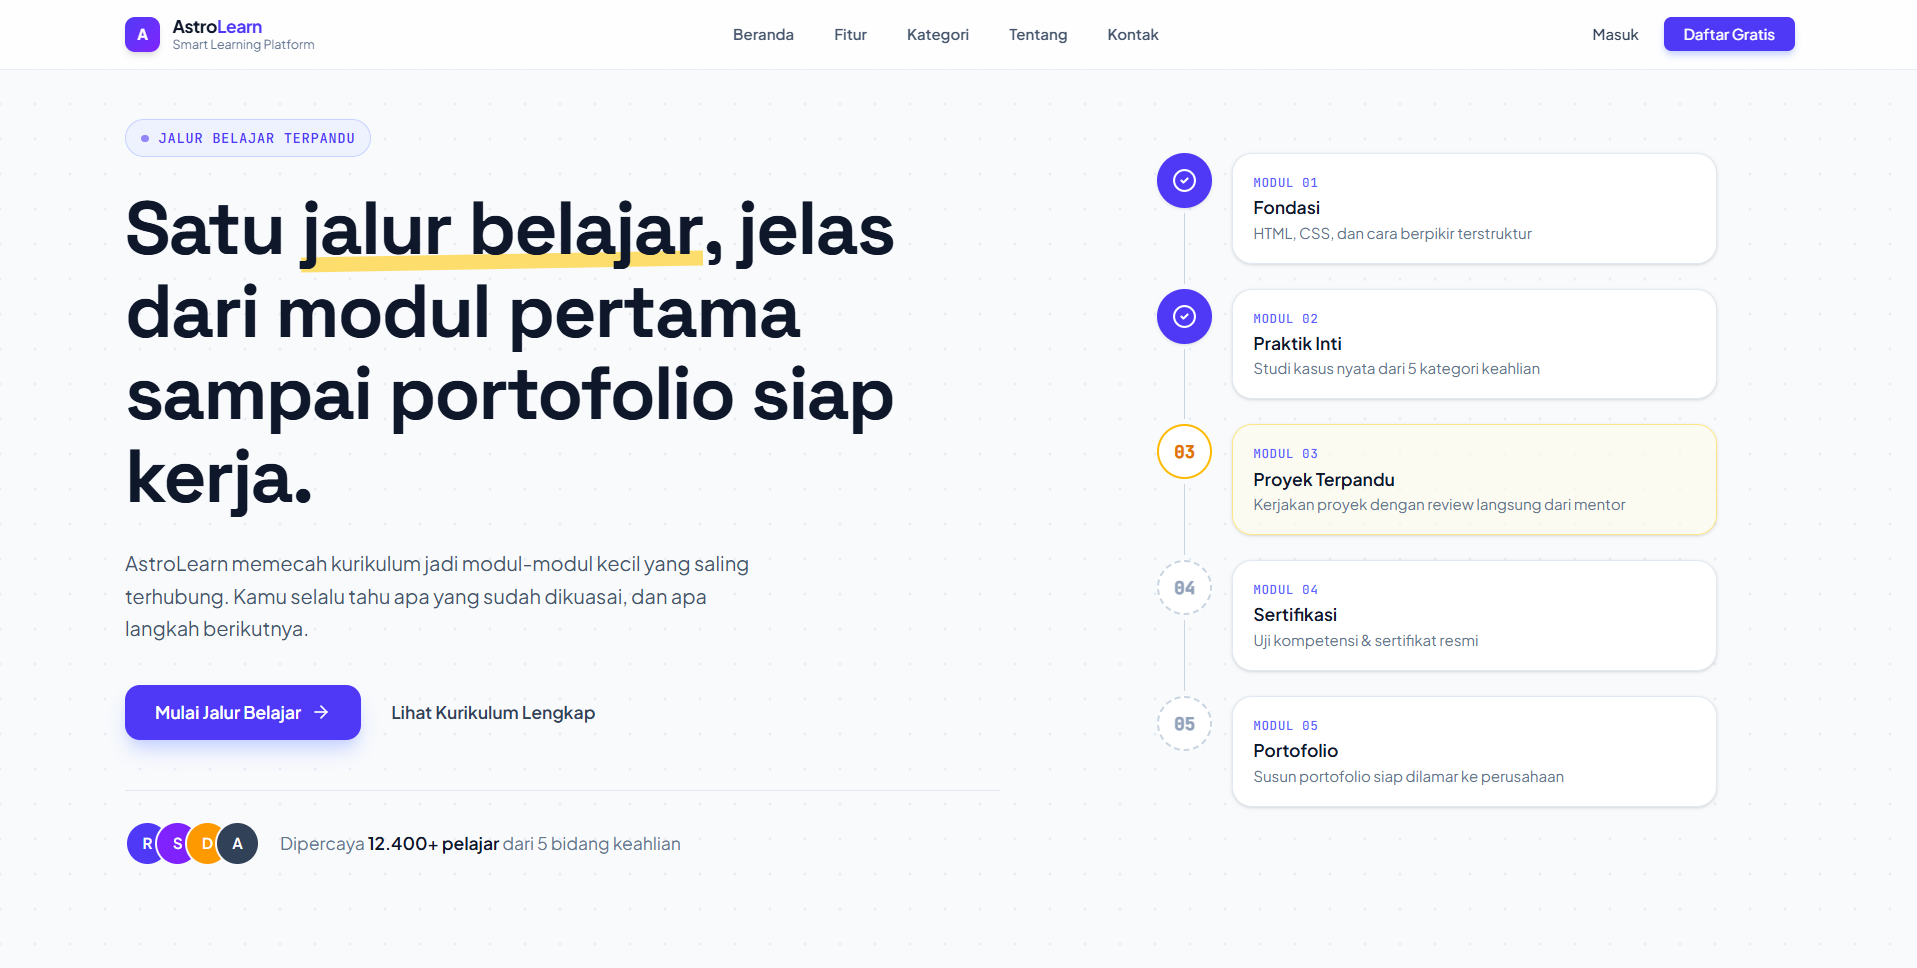
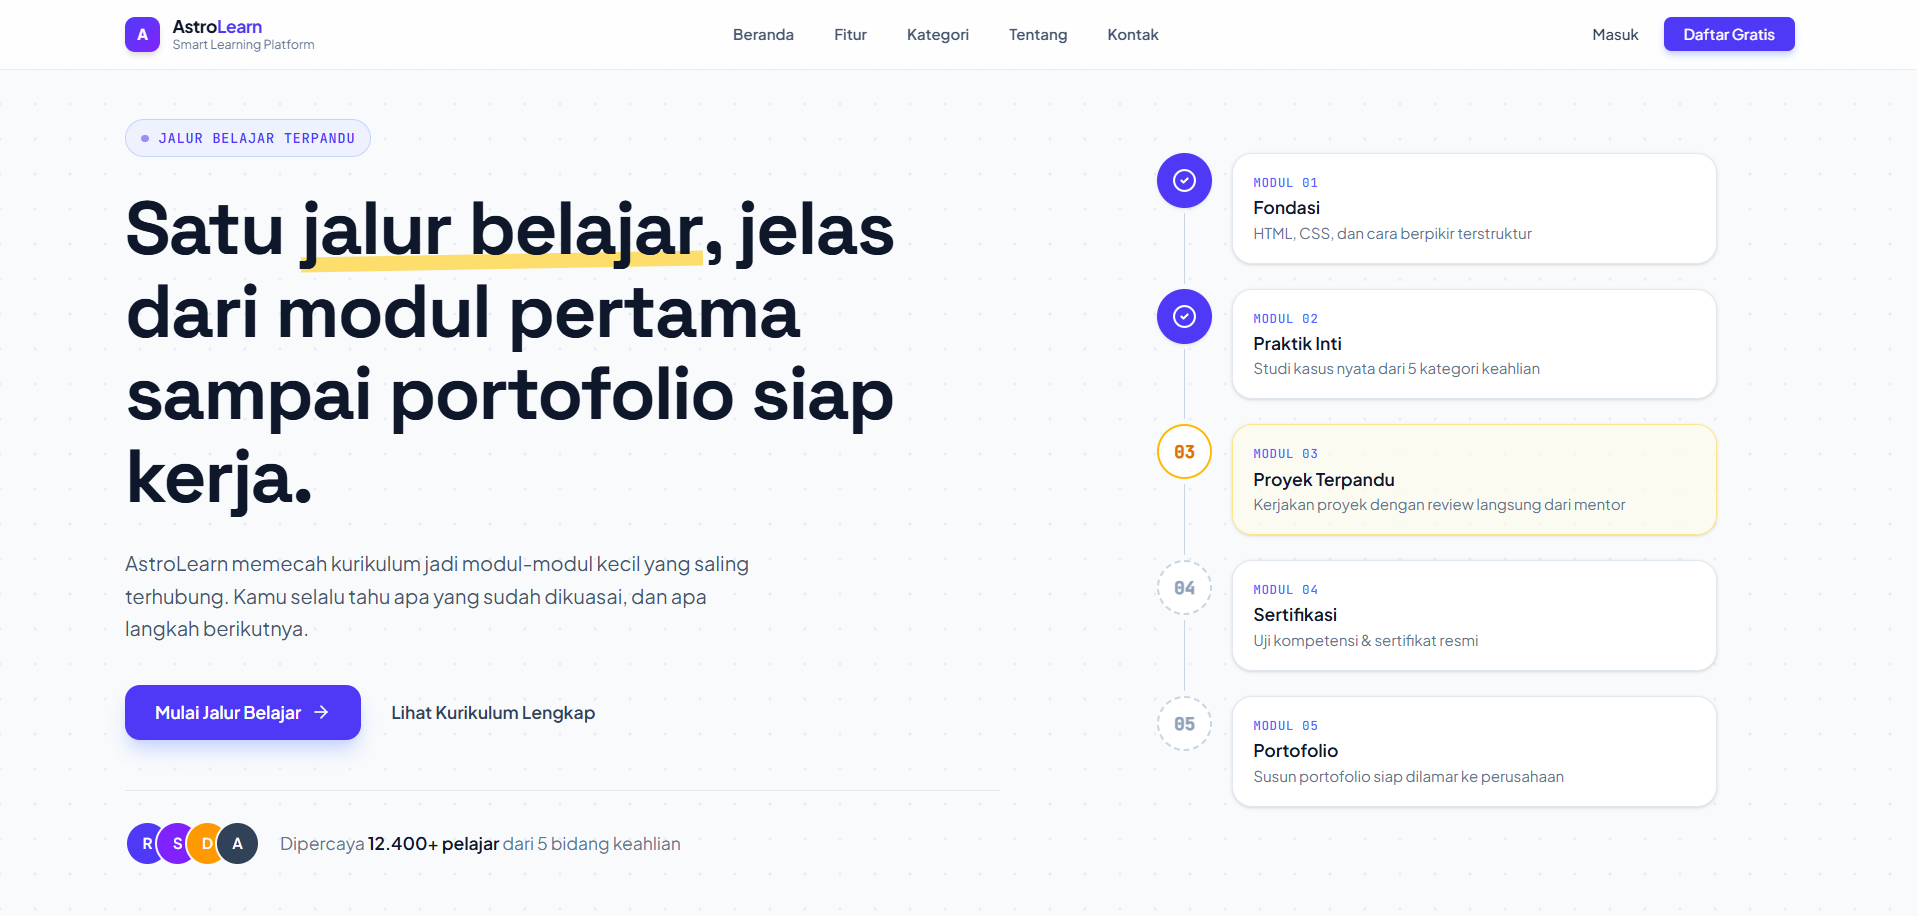
FIX

diff --git a/src/Portfolio.jsx b/src/Portfolio.jsx
@@ -550,7 +550,7 @@ export default function Portfolio() {
             }}>
               <div style={{ order: i % 2 === 0 ? 1 : 2, overflow: "hidden", borderRadius: 8 }}>
                 <div className="project-card" style= {{
-                    height: 250,
+                    height: 280,
                     borderRadius: 8,
                     border: `1px solid ${colors.panelBorder}`,
                     background: `linear-gradient(135deg, ${colors.panel} 0%, #262C3A 100%)`,
